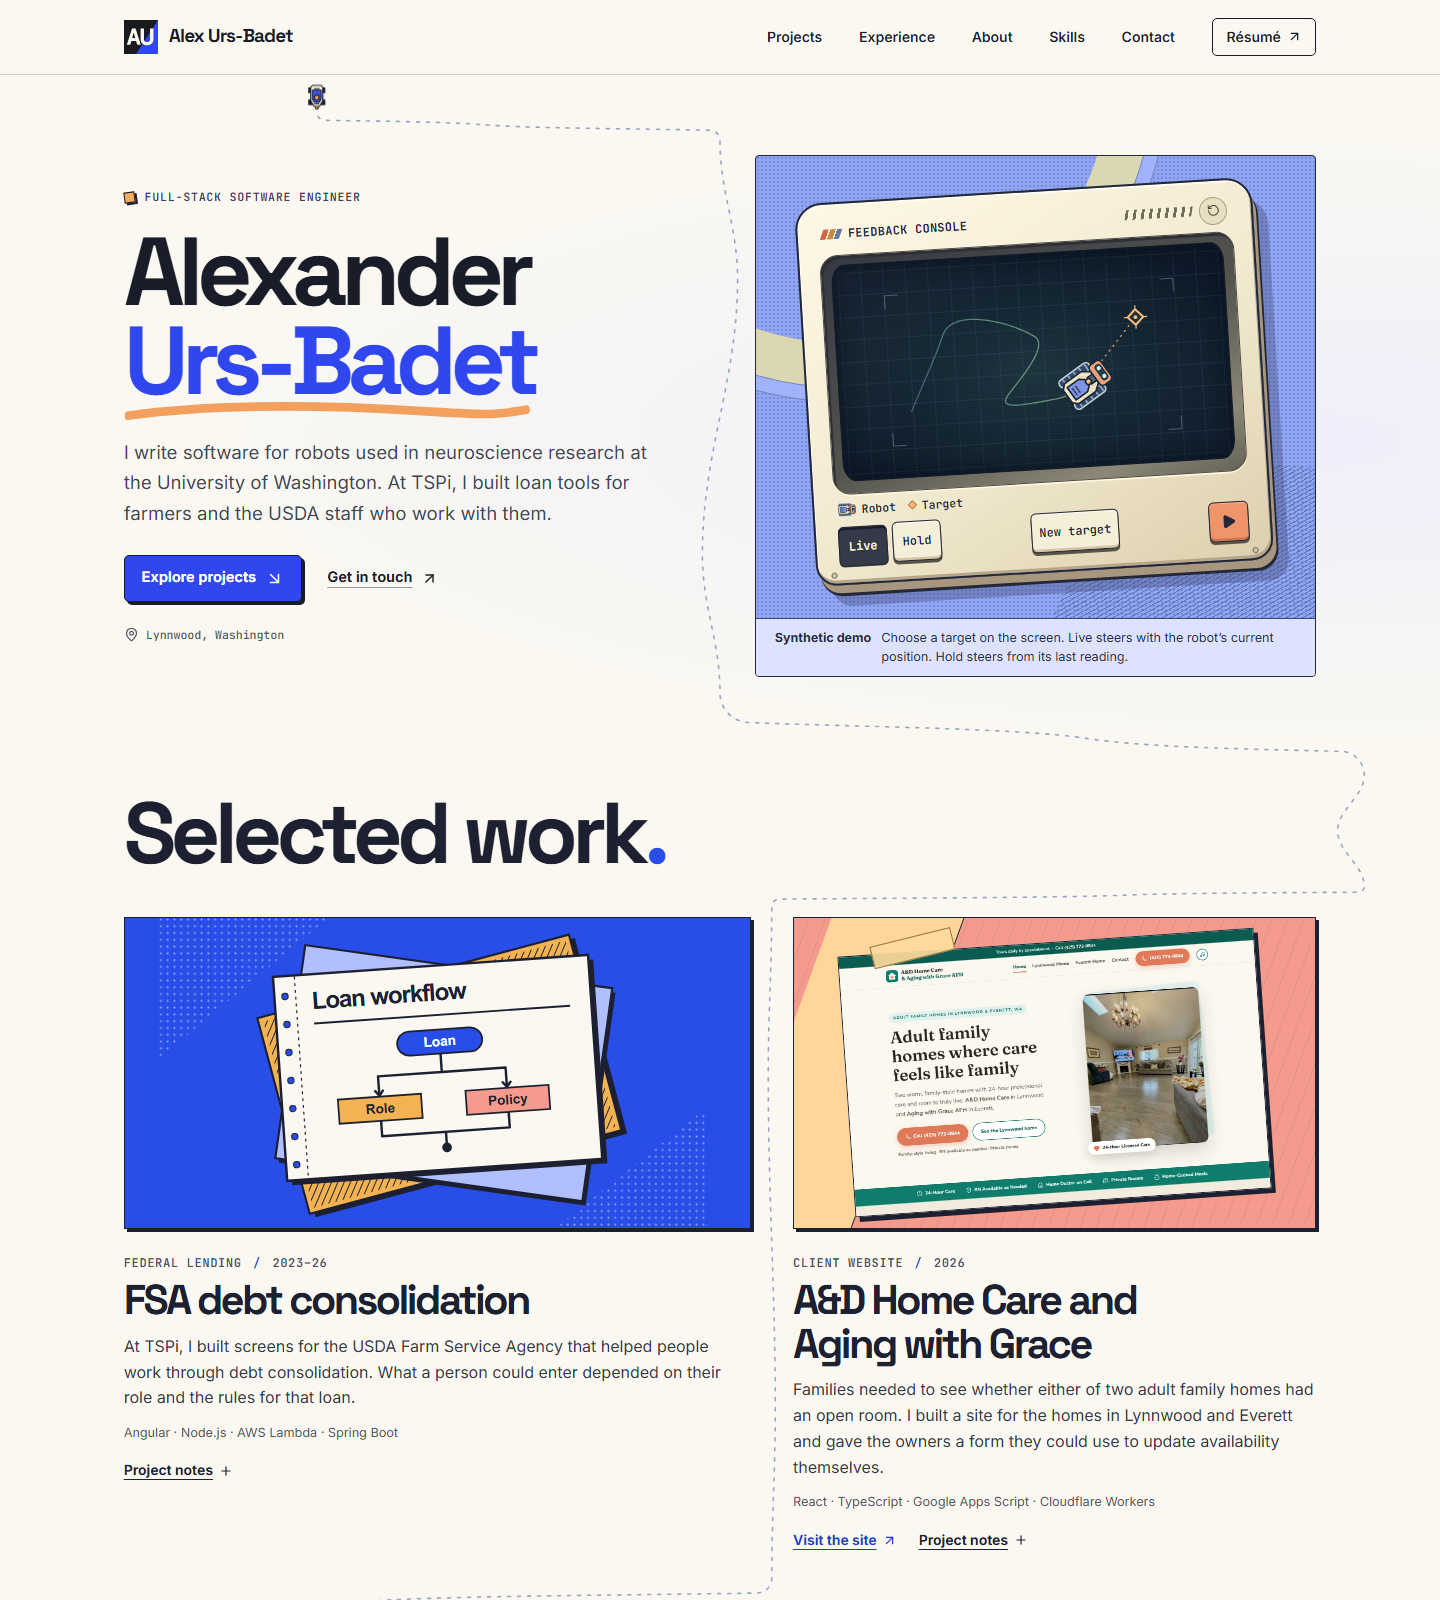
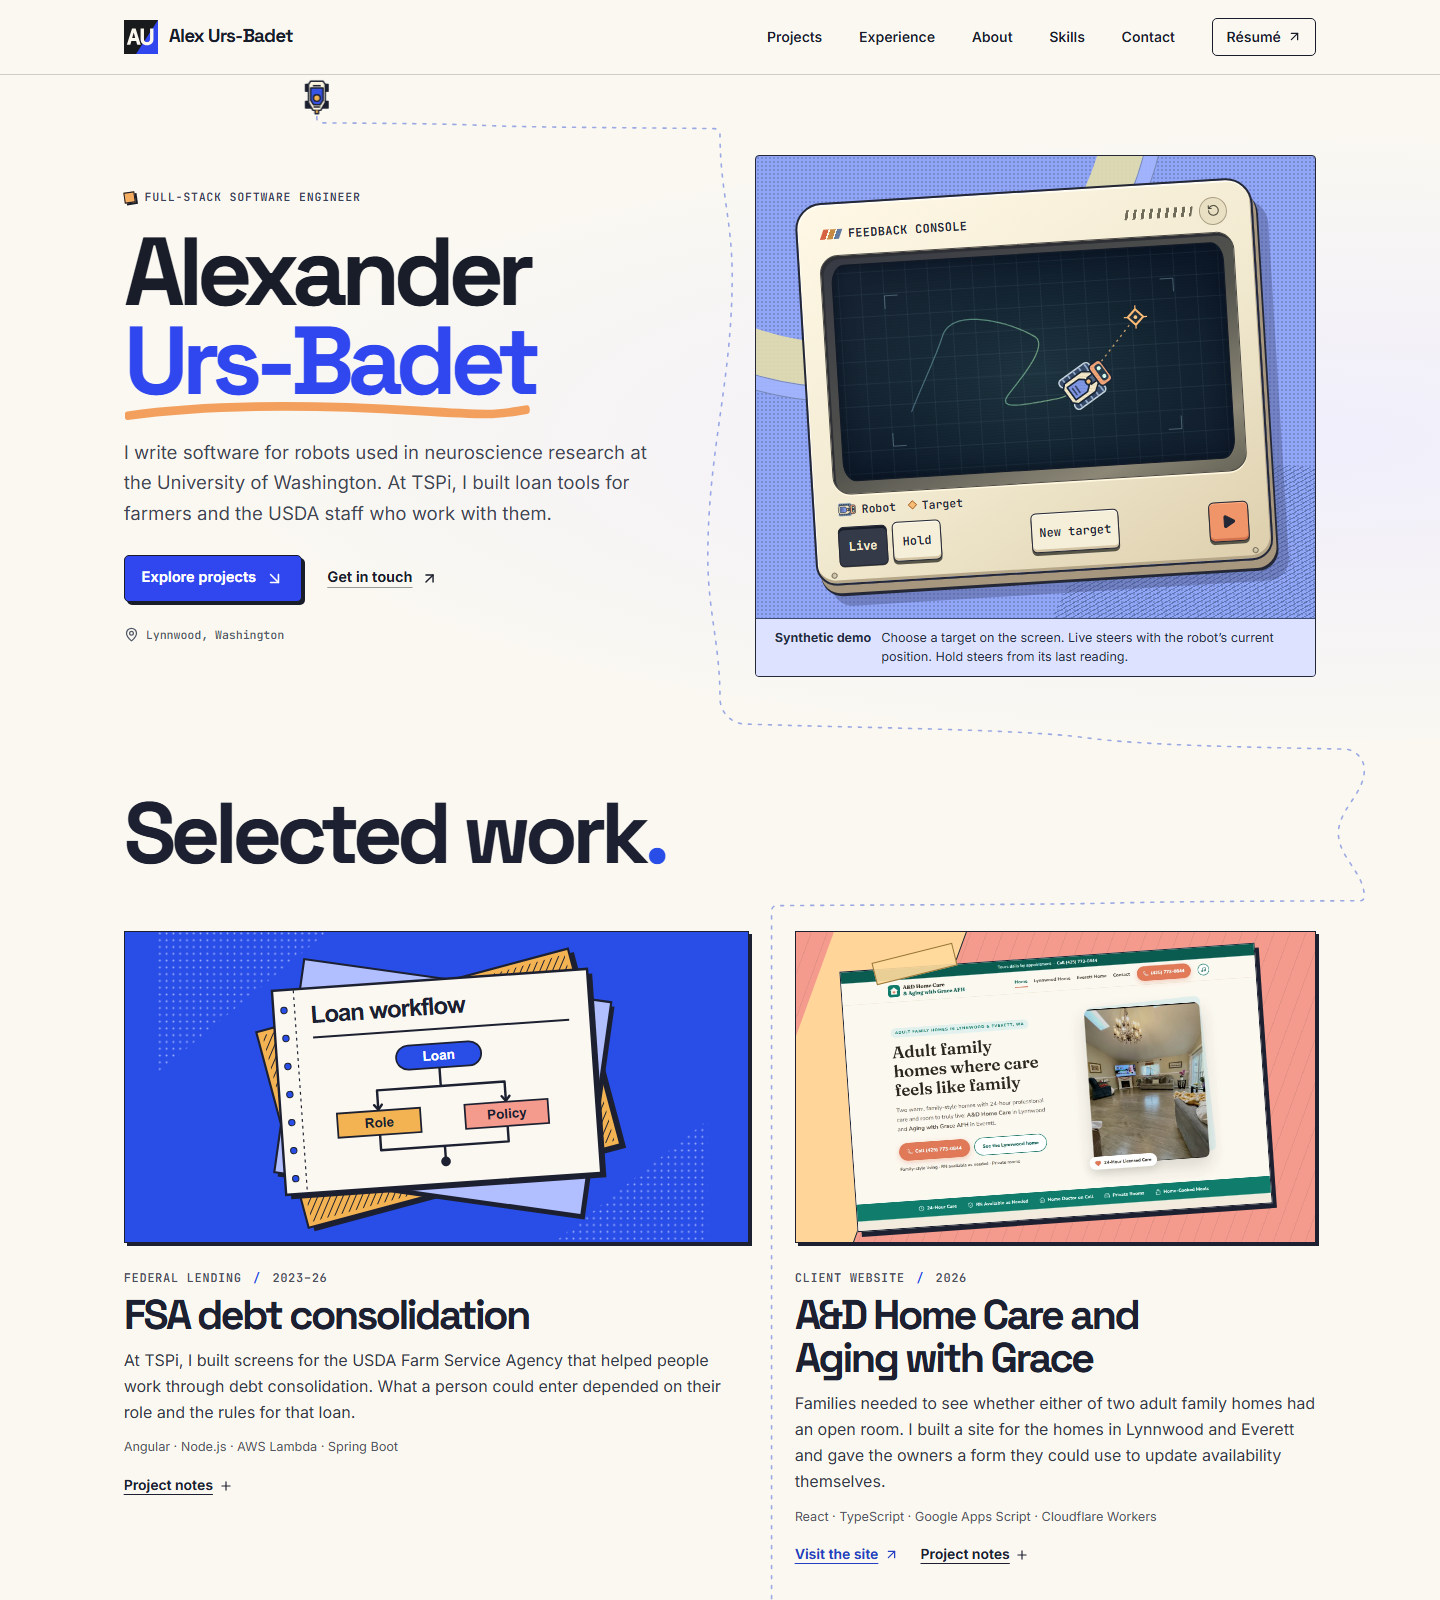
Enlarge the page rover and color its traveled route

Changed region(s): [[0.0625, 0.5625, 0.9375, 1.0], [0.2188, 0.0625, 0.25, 0.0938]]

diff --git a/src/components/layout/ScrollIndicator.tsx b/src/components/layout/ScrollIndicator.tsx
@@ -2,10 +2,11 @@ import { useEffect, useId, useRef, useState } from 'react'
 import type { KeyboardEvent, PointerEvent } from 'react'
 import { measureRoute } from './measureRoute'
 import { buildRoverRoute } from './roverRoute'
+import TraveledRoute, { type TrailPainter } from './TraveledRoute'
 import './ScrollIndicator.css'
 
-function getScene(main: HTMLElement) {
-  const layout = measureRoute(main)
+function getScene(main: HTMLElement, roverWidth: number) {
+  const layout = measureRoute(main, roverWidth)
   return layout && { ...layout, route: buildRoverRoute(layout) }
 }
 type Scene = NonNullable<ReturnType<typeof getScene>>
@@ -33,12 +34,14 @@ export default function ScrollIndicator() {
   const sheet = useRef<HTMLDivElement>(null)
   const handle = useRef<HTMLButtonElement>(null)
   const vehicle = useRef<SVGSVGElement>(null)
+  const trail = useRef<TrailPainter | null>(null)
   const [scene, setScene] = useState<Scene | null>(null)
   const drag = useRef<{ id: number; y: number; scroll: number } | null>(null)
 
   useEffect(() => {
     const main = sheet.current?.parentElement
-    if (!main) return
+    const rover = handle.current
+    if (!main || !rover) return
     let active: Scene | null = null
     let lastY = window.scrollY
     let reversed = false
@@ -51,6 +54,7 @@ export default function ScrollIndicator() {
       if (Math.abs(y - lastY) > 1) reversed = y < lastY
       lastY = y
       const point = active.route.sample(y)
+      if (trail.current?.route === active.route) trail.current.draw(point)
       handle.current.style.transform = 'translate3d(' + point.x.toFixed(2) + 'px,' + point.y.toFixed(2) + 'px,0) translate(-50%,-50%)'
       vehicle.current.style.transform = 'rotate(' + (point.angle + (reversed ? 180 : 0)).toFixed(1) + 'deg)'
       const percent = Math.round(100 * y / Math.max(1, active.maxScroll))
@@ -58,7 +62,7 @@ export default function ScrollIndicator() {
     }
     const measure = () => {
       measureFrame = 0
-      active = getScene(main)
+      active = getScene(main, rover.getBoundingClientRect().width)
       setScene(active)
       draw()
     }
@@ -72,6 +76,7 @@ export default function ScrollIndicator() {
     // The decorative route can wait until the main page has rendered.
     const observer = new ResizeObserver(requestMeasure)
     observer.observe(main)
+    observer.observe(rover)
     // An expanded project or a font swap can move the next crossing even if
     // the viewport keeps the same dimensions.
     main.querySelectorAll('section, .hero-intro, #tracking-demo, .project-feature, .project-catalog, .experience-intro, .about-layout, .skills-layout').forEach(el => observer.observe(el))
@@ -107,17 +112,18 @@ export default function ScrollIndicator() {
   const end = scene?.route.sample(scene.maxScroll)
   return (
     <div className="page-route" ref={sheet}>
-      {scene && start && end && (
-        <svg className="page-route__map" aria-hidden="true" focusable="false">
+      <TraveledRoute route={scene?.route} ink={id + '-ink'} ref={trail} />
+      <svg className="page-route__map" aria-hidden="true" focusable="false">
+        {scene && start && end && <>
           <defs>
             <linearGradient id={id + '-ink'} gradientUnits="userSpaceOnUse" x1="0" x2="0" y1="0" y2={scene.height}>
-              <stop stopColor="#7686ae" />
-              <stop offset={scene.darkStart} stopColor="#7686ae" />
-              <stop offset={scene.darkStart} stopColor="#a4ade3" />
-              <stop offset={scene.darkEnd} stopColor="#a4ade3" />
-              <stop offset={scene.darkEnd} stopColor="#7686ae" />
-              <stop offset={scene.contactStart} stopColor="#7686ae" />
-              <stop offset={scene.contactStart} stopColor="#ddd9ff" />
+              <stop stopColor="#3554d5" />
+              <stop offset={scene.darkStart} stopColor="#3554d5" />
+              <stop offset={scene.darkStart} stopColor="#b5c5ff" />
+              <stop offset={scene.darkEnd} stopColor="#b5c5ff" />
+              <stop offset={scene.darkEnd} stopColor="#3554d5" />
+              <stop offset={scene.contactStart} stopColor="#3554d5" />
+              <stop offset={scene.contactStart} stopColor="#ffdc9b" />
             </linearGradient>
             <path id={id + '-road'} d={scene.route.path} />
           </defs>
@@ -132,8 +138,8 @@ export default function ScrollIndicator() {
               <circle r="6" /><circle r="2" />
             </g>
           ))}
-        </svg>
-      )}
+        </>}
+      </svg>
       <button ref={handle} className="page-route__rover" style={{ visibility: scene ? undefined : 'hidden' }}
         type="button" role="slider" aria-label="Page scroll position" aria-orientation="vertical"
         aria-valuemin={0} aria-valuemax={100} aria-valuenow={0}

diff --git a/src/components/layout/roverRoute.ts b/src/components/layout/roverRoute.ts
@@ -13,9 +13,17 @@ export type RoverRouteInput = {
 }
 
 export type RoverRoutePoint = { x: number; y: number; angle: number; distance: number }
+export type RoverRoutePiece = {
+  path: string
+  bounds: { left: number; top: number; right: number; bottom: number }
+  startDistance: number
+  endDistance: number
+  direction: 'down' | 'right' | 'left'
+}
 export type RoverRoute = {
   path: string
   length: number
+  pieces: RoverRoutePiece[]
   sample: (scrollY: number) => RoverRoutePoint
   nearestScroll: (x: number, y: number) => number
 }
@@ -110,7 +118,7 @@ export function buildRoverRoute(input: RoverRouteInput): RoverRoute {
   const startX = clamp(input.startX ?? inset, 0, width)
   const start = { x: startX, y: startY, angle: 90, distance: 0 }
   const move = `M${startX},${startY}`
-  if (endY === startY) return { path: move, length: 0, sample: () => ({ ...start }), nearestScroll: () => 0 }
+  if (endY === startY) return { path: move, length: 0, pieces: [], sample: () => ({ ...start }), nearestScroll: () => 0 }
 
   const baseline = (y: number) => (y - startY) / (endY - startY) * maxScroll
   const screenStart = mainTop + startY
@@ -179,13 +187,31 @@ export function buildRoverRoute(input: RoverRouteInput): RoverRoute {
   addLane(endY, maxScroll)
 
   const samples: Sample[] = [{ ...start, scroll: 0 }]
+  const pieces: RoverRoutePiece[] = []
   const commands = [move]
   let corner = 0
   for (const portion of portions) {
     const from = samples.length - 1
+    const commandStart = commands.length
+    const first = portion.curves[0][0]
+    const end = portion.curves[portion.curves.length - 1][3]
+    const dx = end.x - first.x
+    const sign = Math.sign(dx)
+    let horizontal = Math.abs(dx) > end.y - first.y
+    const bounds = { left: first.x - 3, top: first.y - 3, right: first.x + 3, bottom: first.y + 3 }
     for (const curve of portion.curves) {
       const [a, b, c, d] = curve
       commands.push(`C${b.x},${b.y} ${c.x},${c.y} ${d.x},${d.y}`)
+      // A cubic stays inside its control hull. Ordered controls also guarantee
+      // that revealing by x never uncovers a later part of the same curve.
+      for (let j = 1; j < curve.length; j++) {
+        const p = curve[j]
+        bounds.left = Math.min(bounds.left, p.x - 3)
+        bounds.top = Math.min(bounds.top, p.y - 3)
+        bounds.right = Math.max(bounds.right, p.x + 3)
+        bounds.bottom = Math.max(bounds.bottom, p.y + 3)
+        if ((p.x - curve[j - 1].x) * sign < 0) horizontal = false
+      }
       const count = clamp(Math.ceil((gap(a, b) + gap(b, c) + gap(c, d)) / 10), 12, 180)
       for (let i = 1; i <= count; i++) {
         const current = sampleCurve(curve, i / count)
@@ -203,7 +229,13 @@ export function buildRoverRoute(input: RoverRouteInput): RoverRoute {
       }
     }
     const startDistance = samples[from].distance
-    const length = samples[samples.length - 1].distance - startDistance
+    const endDistance = samples[samples.length - 1].distance
+    const length = endDistance - startDistance
+    pieces.push({
+      path: `M${first.x},${first.y} ${commands.slice(commandStart).join(' ')}`,
+      bounds, startDistance, endDistance,
+      direction: horizontal ? (dx > 0 ? 'right' : 'left') : 'down',
+    })
     for (let i = from + 1; i < samples.length; i++) {
       const s = samples[i]
       const fraction = (s.distance - startDistance) / length
@@ -252,5 +284,5 @@ export function buildRoverRoute(input: RoverRouteInput): RoverRoute {
     return result
   }
 
-  return { path: commands.join(' '), length: last.distance, sample, nearestScroll }
+  return { path: commands.join(' '), length: last.distance, pieces, sample, nearestScroll }
 }

diff --git a/src/components/layout/TraveledRoute.tsx b/src/components/layout/TraveledRoute.tsx
@@ -1,0 +1,76 @@
+import { useImperativeHandle, useRef } from 'react'
+import type { Ref } from 'react'
+import type { RoverRoute, RoverRoutePoint } from './roverRoute'
+
+export type TrailPainter = { route: RoverRoute; draw: (point: RoverRoutePoint) => void }
+
+type Props = {
+  route?: RoverRoute
+  ink: string
+  ref: Ref<TrailPainter | null>
+}
+
+// Each bend or lane is a small, static SVG. A translated clip and an equal
+// counter-translation expose its ink without repainting the page-height map.
+export default function TraveledRoute({ route, ink, ref }: Props) {
+  const container = useRef<HTMLDivElement>(null)
+
+  useImperativeHandle<TrailPainter | null, TrailPainter | null>(ref, () => {
+    if (!route?.pieces.length || !container.current) return null
+    const pieces = route.pieces
+    const layers = Array.from(container.current.children, element => {
+      const clip = element.firstElementChild as HTMLDivElement
+      return { element: element as HTMLDivElement, clip, art: clip.firstElementChild as SVGSVGElement }
+    })
+    let current = -1
+    function draw(point: RoverRoutePoint) {
+      let next = Math.max(0, current)
+      while (next < pieces.length - 1 && point.distance >= pieces[next].endDistance) next++
+      while (next > 0 && point.distance < pieces[next].startDistance) next--
+      if (next !== current) {
+        for (let i = Math.max(0, Math.min(current, next)); i <= Math.max(current, next); i++) {
+          const layer = layers[i]
+          layer.element.dataset.state = i < next ? 'done' : i === next ? 'current' : 'ahead'
+          layer.clip.style.removeProperty('transform')
+          layer.art.style.removeProperty('transform')
+        }
+        current = next
+      }
+
+      const { bounds, direction, startDistance, endDistance } = pieces[next]
+      const vertical = direction === 'down'
+      const span = vertical ? bounds.bottom - bounds.top : bounds.right - bounds.left
+      const fromRight = direction === 'left'
+      let shift = vertical ? point.y - bounds.bottom :
+        fromRight ? point.x - bounds.left : point.x - bounds.right
+      if (point.distance <= startDistance) shift = fromRight ? span : -span
+      if (point.distance >= endDistance) shift = 0
+      const x = vertical ? 0 : shift
+      const y = vertical ? shift : 0
+      layers[next].clip.style.transform = `translate3d(${x}px,${y}px,0)`
+      layers[next].art.style.transform = `translate3d(${-x}px,${-y}px,0)`
+    }
+
+    draw(route.sample(window.scrollY))
+    return { route, draw }
+  }, [route])
+
+  return (
+    <div className="page-route__ink" ref={container} aria-hidden="true">
+      {route?.pieces.map((piece, index) => {
+        const { left, right, top, bottom } = piece.bounds
+        const width = right - left
+        const height = bottom - top
+        return (
+          <div className="page-route__piece" key={index} style={{ left, top, width, height }}>
+            <div className="page-route__clip">
+              <svg viewBox={`${left} ${top} ${width} ${height}`} preserveAspectRatio="none">
+                <path className="page-route__traveled" d={piece.path} stroke={`url(#${ink})`} />
+              </svg>
+            </div>
+          </div>
+        )
+      })}
+    </div>
+  )
+}

diff --git a/src/components/layout/ScrollIndicator.css b/src/components/layout/ScrollIndicator.css
@@ -1,16 +1,27 @@
-.route-main { position: relative; isolation: isolate; }
+.route-main { position: relative; isolation: isolate; --page-rover-size: clamp(24px, 2.65vw, 42px); }
 .page-route {
   position: absolute; inset: 0; z-index: 2; overflow: clip; pointer-events: none;
 }
 .page-route__map { position: absolute; inset: 0; width: 100%; height: 100%; overflow: visible; }
 .page-route__track {
-  fill: none; stroke-width: 1.6; stroke-linecap: round; stroke-dasharray: 3 7; opacity: .73;
+  fill: none; stroke-width: 1.6; stroke-linecap: round; stroke-dasharray: 3 7; opacity: .48;
 }
+.page-route__traveled { fill: none; stroke-width: 3.5; stroke-linecap: round; pointer-events: none; }
+.page-route__ink { position: absolute; inset: 0; pointer-events: none; }
+.page-route__piece {
+  position: absolute; overflow: hidden; contain: strict; visibility: hidden;
+}
+.page-route__piece:is([data-state="current"], [data-state="done"]) { visibility: visible; }
+.page-route__clip, .page-route__clip svg {
+  width: 100%; height: 100%; display: block; overflow: hidden;
+}
+.page-route__piece[data-state="current"] .page-route__clip,
+.page-route__piece[data-state="current"] .page-route__clip svg { will-change: transform; }
 .page-route__hit { fill: none; stroke: transparent; stroke-width: 12; pointer-events: stroke; cursor: pointer; }
 .page-route__dock circle:first-child { fill: #faf8f1; stroke: #7180ad; stroke-width: 1.4; }
 .page-route__dock circle:last-child { fill: #e99453; }
 .page-route__rover {
-  position: absolute; top: 0; left: 0; width: clamp(16px, 1.9vw, 30px); height: clamp(16px, 1.9vw, 30px); padding: 0;
+  position: absolute; top: 0; left: 0; width: var(--page-rover-size); height: var(--page-rover-size); padding: 0;
   display: grid; place-items: center; border: 0; border-radius: 50%;
   cursor: ns-resize; pointer-events: auto; touch-action: pan-y; user-select: none;
   will-change: transform;
@@ -18,8 +29,8 @@
 .page-route__rover svg { width: 100%; height: auto; overflow: visible; }
 .page-route__rover:focus-visible { outline: 2px solid #de8844; outline-offset: 1px; background: #faf8f1; }
 @media (max-width: 42rem) {
-  .page-route__rover { width: 16px; height: 16px; }
   .page-route__track { stroke-width: 1.25; stroke-dasharray: 2 6; }
+  .page-route__traveled { stroke-width: 2.75; }
   .page-route__hit { pointer-events: none; }
 }
 @media (pointer: coarse) {

diff --git a/src/components/layout/measureRoute.ts b/src/components/layout/measureRoute.ts
@@ -2,7 +2,7 @@ import type { RoverRouteInput } from './roverRoute'
 
 // Crossovers go in measured whitespace. The vertical legs can use a real
 // column gap on wide screens or the page gutter when the columns stack.
-export function measureRoute(main: HTMLElement) {
+export function measureRoute(main: HTMLElement, roverWidth: number) {
   const frame = main.getBoundingClientRect()
   const landmarks = {
     hero: '.hero-intro',
@@ -44,14 +44,13 @@ export function measureRoute(main: HTMLElement) {
   const left = inset
   const right = frame.width - inset
   const bands: RoverRouteInput['bands'] = []
-  const roverWidth = frame.width <= 672 ? 16 : Math.min(30, frame.width * .019)
   // Let a generous margin meander. In tight grid gaps keep the path centered.
   const outerDrift = Math.max(0, Math.min(30, inset - roverWidth / 2 - 3, hero.left - inset - roverWidth / 2 - 3))
   const gapDrift = (space: number) => Math.max(0, Math.min(18, (space - roverWidth) / 2 - 4))
   function cross(top: number, bottom: number, nextX: number, nextDrift = outerDrift) {
     // Leave room at both ends for the rover's body and the section content.
     if (bottom - top >= 24) {
-      const pad = Math.min(roverWidth / 2 + 2, (bottom - top) * .26)
+      const pad = Math.min(roverWidth / 2 + 2, (bottom - top) * .41)
       bands.push({ top: top + pad, bottom: bottom - pad, nextX, nextDrift })
     }
   }

diff --git a/src/components/sections/project-list.css b/src/components/sections/project-list.css
@@ -24,11 +24,18 @@
 
 .project-index h2 span { color: var(--work-blue); }
 
+@media (min-width: 42.01rem) {
+  .project-index h2 {
+    margin-bottom: max(clamp(1.35rem, 3vw, 2.6rem), calc(var(--page-rover-size) + 18px));
+  }
+}
+
 .project-features {
   display: grid;
   grid-template-columns: minmax(0, 1.09fr) minmax(0, .91fr);
   align-items: start;
   gap: clamp(1.35rem, 3vw, 2.65rem);
+  column-gap: max(clamp(1.35rem, 3vw, 2.65rem), calc(var(--page-rover-size) + 8px));
 }
 
 .project-entry { min-width: 0; scroll-margin-block-start: 5.25rem; }
@@ -198,7 +205,7 @@
 }
 
 @media (max-width: 52rem) {
-  .project-features { grid-template-columns: repeat(2, minmax(0, 1fr)); gap: 1.35rem; }
+  .project-features { grid-template-columns: repeat(2, minmax(0, 1fr)); gap: 1.35rem; column-gap: calc(var(--page-rover-size) + 8px); }
   .project-cover { height: auto; aspect-ratio: 1.73; }
   .project-row { grid-template-columns: 5.6rem minmax(0,.75fr) minmax(0,1.25fr); gap: 1.25rem; }
 }

diff --git a/src/index.css b/src/index.css
@@ -39,7 +39,7 @@
 :root {
   --font-editorial: var(--font-display);
   --brand-blue: #3047ef;
-  --gutter: clamp(1.25rem, 4.7vw, 4.75rem);
+  --gutter: clamp(1.75rem, 4.7vw, 4.75rem);
 }
 
 * { box-sizing: border-box; }
